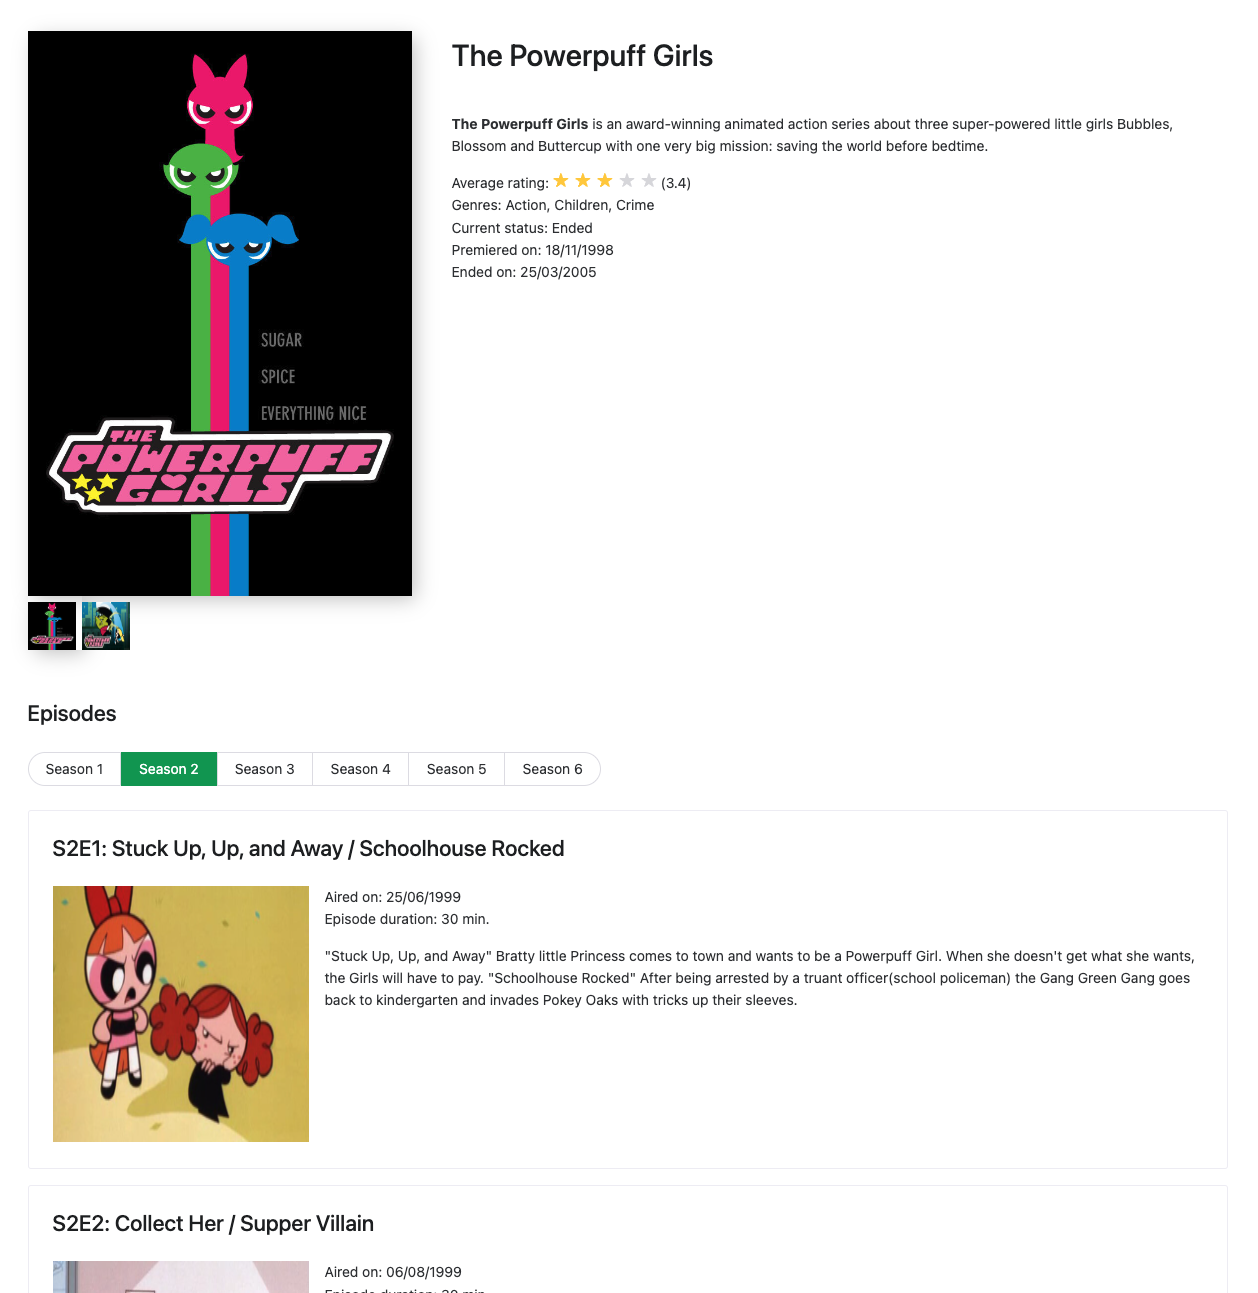
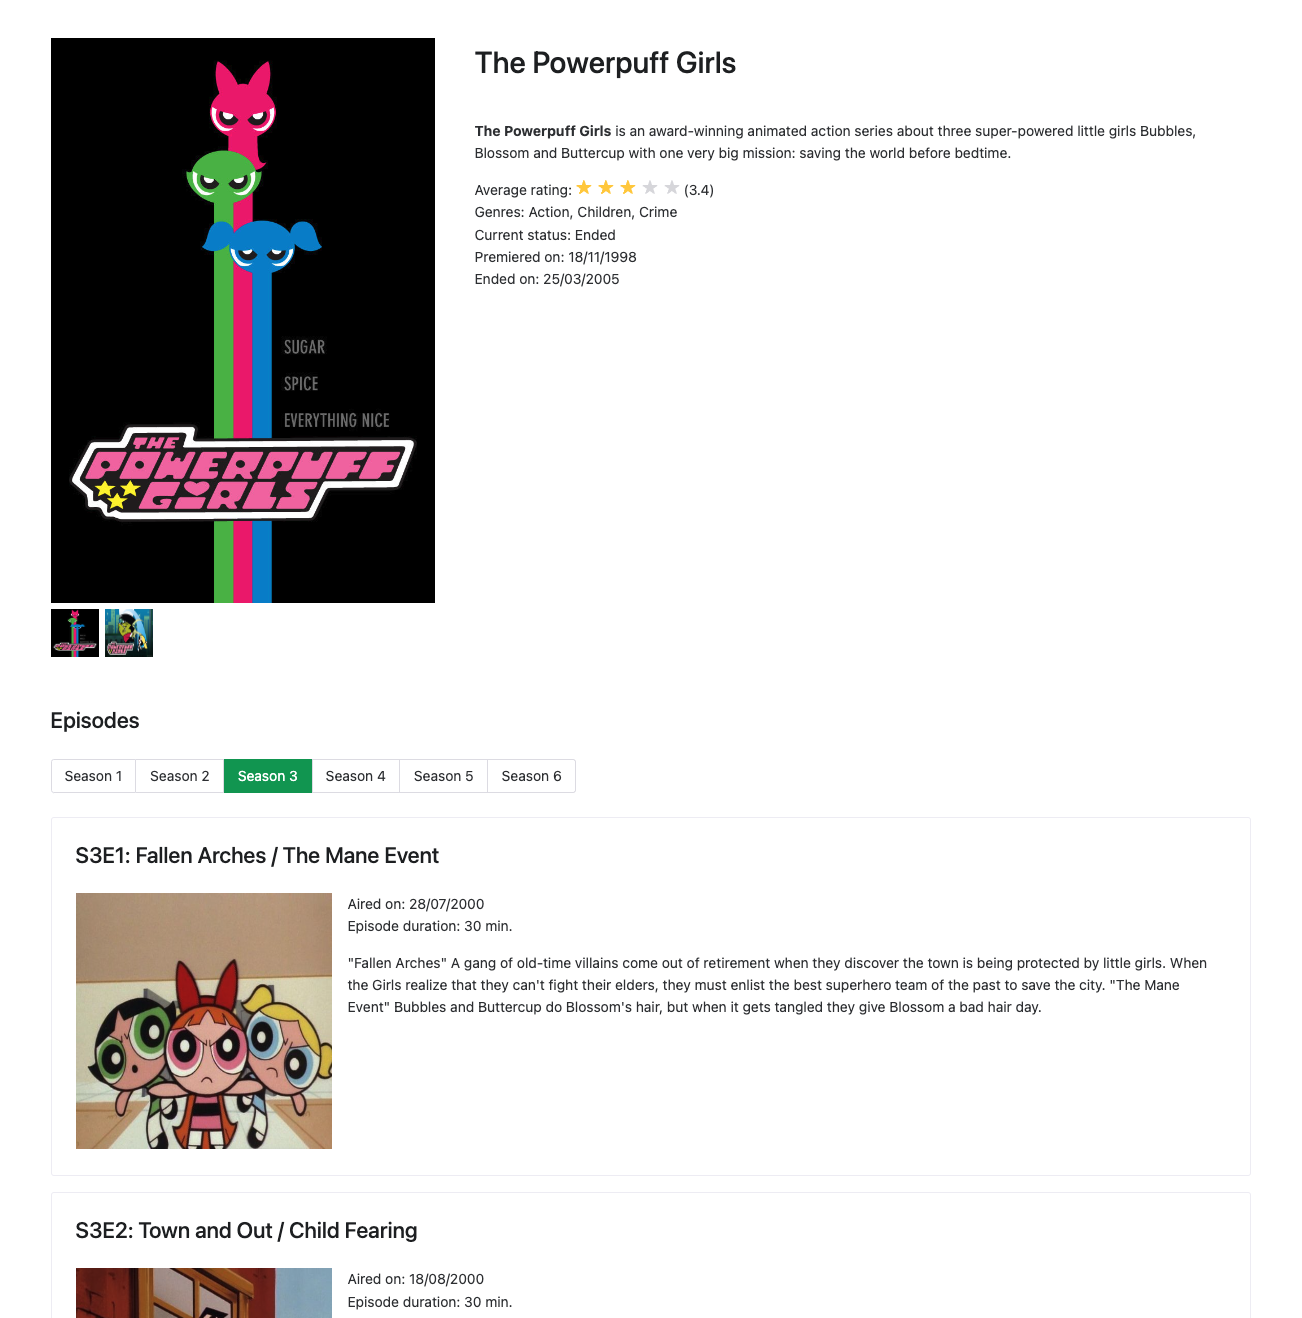
Update buttons and image

Changed region(s): [[0.0, 0.0, 0.93, 0.8971], [0.031, 0.9281, 0.403, 1.0]]

diff --git a/src/components/TVShowDetails.vue b/src/components/TVShowDetails.vue
@@ -97,7 +97,7 @@ const selectSeason = async (season: Season) => {
         v-for="season in tvShowStore.seasons"
         :type="season.number === tvShowStore.selectedSeason?.number ? 'primary' : 'default'"
         @click="selectSeason(season)"
-        ghost>
+        default>
         {{ $translate('season') }} {{ season.number }}
       </n-button>
     </n-button-group>
